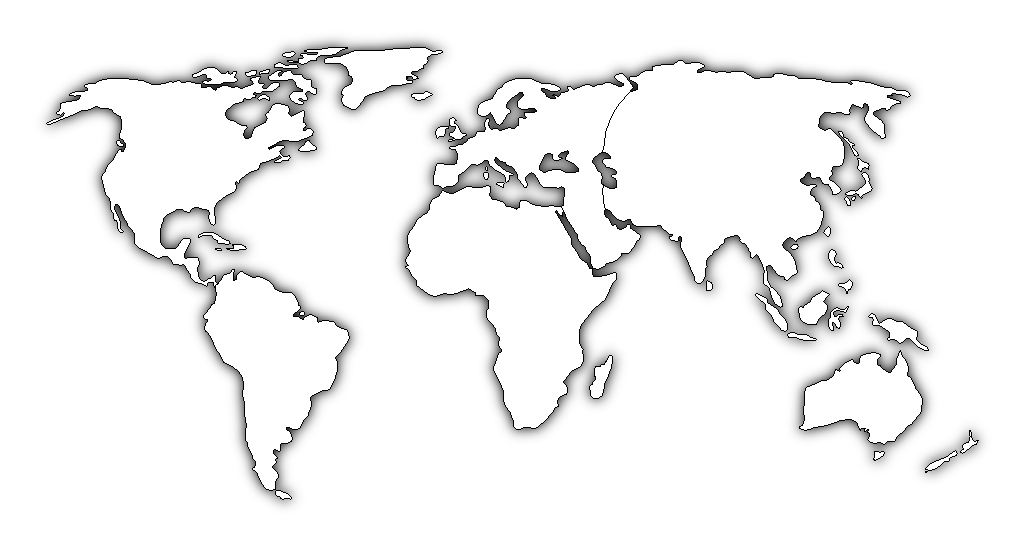
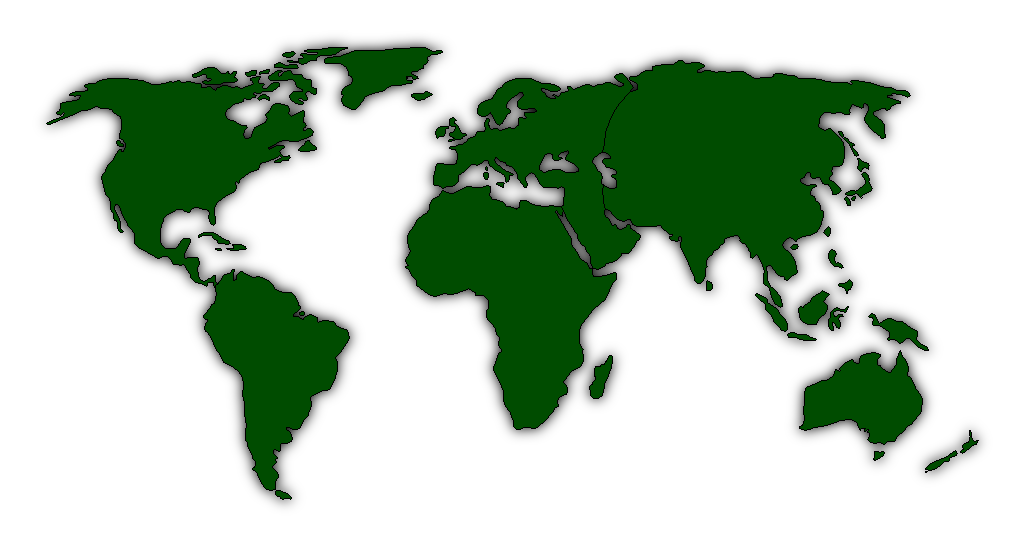
Joue avec l'aide d'une IA.

diff --git a/javascript/ville.js b/javascript/ville.js
@@ -9,6 +9,7 @@ exports.Ville = function(gameLogic, usine, zone, nom, x, y) {
 	this.gameLogic = gameLogic;
 	this.isUsine = usine;
 	this.zone = zone;
+	this.player = zone.owner;
 	if (this.isUsine) {
 		this.imageVille = gamejs.image.load("images/usine.png");
 		this.imageVilleHL = gamejs.image.load("images/HL_usine.png");
@@ -16,6 +17,8 @@ exports.Ville = function(gameLogic, usine, zone, nom, x, y) {
 		this.imageVille = gamejs.image.load("images/ville.png");
 		this.imageVilleHL = gamejs.image.load("images/HL_ville.png");
 	}
+	this.imageVille.setAlpha(this.player == 0 ? 0 : 0.5);
+	this.imageVilleHL.setAlpha(this.player == 0 ? 0 : 0.5);
 	this.image = this.imageVille;
 	this.width = this.imageVille.getSize()[0];
 	this.height = this.imageVille.getSize()[1];
@@ -32,6 +35,7 @@ exports.Ville = function(gameLogic, usine, zone, nom, x, y) {
 	this.habitantsInfectes = 0;
 	this.habitantsImmunises = 0;
 	this.habitantsMorts = 0;
+
 
 	return this;
 };
@@ -143,14 +147,16 @@ exports.Ville.prototype.update_habitants = function(msDuration) {
 exports.Ville.prototype.drawInfos = function(infoVilleSurface) {
 	infoVilleSurface.clear();
 	infoVilleSurface.blit(font.render(this.nom, '#ffffff'), [0, 250]);
-	infoVilleSurface.blit(font.render("Population totale : " + this.getHabitants(), '#ffffff'), [0, 280]);
-	infoVilleSurface.blit(font.render("Population saine :", '#ffffff'), [0, 300]);
-	infoVilleSurface.blit(font.render("non vaccinée : " + this.getHabitantsSains(), '#ffffff'), [40, 320]);
-	infoVilleSurface.blit(font.render("immunisée : " + this.getHabitantsImmunises(), '#ffffff'), [40, 340]);
-	infoVilleSurface.blit(font.render("Population malade : " + this.getHabitantsInfectes(), '#ffffff'), [0, 360]);
-	infoVilleSurface.blit(font.render("Nombre de morts : " + this.getHabitantsMorts(), '#ffffff'), [0, 380]);
-	infoVilleSurface.blit(font.render("Stocks traitements : " + this.stockTraitements, '#ffffff'), [0, 410]);
-	infoVilleSurface.blit(font.render("Stocks vaccins : " + this.stockVaccins, '#ffffff'), [0, 430]);
+	if (this.player == 0) {
+		infoVilleSurface.blit(font.render("Population totale : " + this.getHabitants(), '#ffffff'), [0, 280]);
+		infoVilleSurface.blit(font.render("Population saine :", '#ffffff'), [0, 300]);
+		infoVilleSurface.blit(font.render("non vaccinée : " + this.getHabitantsSains(), '#ffffff'), [40, 320]);
+		infoVilleSurface.blit(font.render("immunisée : " + this.getHabitantsImmunises(), '#ffffff'), [40, 340]);
+		infoVilleSurface.blit(font.render("Population malade : " + this.getHabitantsInfectes(), '#ffffff'), [0, 360]);
+		infoVilleSurface.blit(font.render("Nombre de morts : " + this.getHabitantsMorts(), '#ffffff'), [0, 380]);
+		infoVilleSurface.blit(font.render("Stocks traitements : " + this.stockTraitements, '#ffffff'), [0, 410]);
+		infoVilleSurface.blit(font.render("Stocks vaccins : " + this.stockVaccins, '#ffffff'), [0, 430]);
+	}
 };
 
 exports.Ville.prototype.draw = function(surface) {

diff --git a/javascript/ia.js b/javascript/ia.js
@@ -1,9 +1,10 @@
 var gamejs = require('gamejs');
 var transfert = require('transfert');
 
-exports.IA = function(gameLogic, gTransferts) {
+exports.IA = function(gameLogic, gTransferts, playerId) {
 	this.gameLogic = gameLogic;
 	this.gTransferts = gTransferts;
+	this.playerId = playerId;
 	gamejs.time.fpsCallback(this.doTurn, this, 1);
 
 	return this;
@@ -13,10 +14,12 @@ exports.IA.prototype.doTurn = function() {
 	var villeA = null;
 	var maxTraitements = -1;
 	for (var i in this.gameLogic.carte.zones) {
-		for (var j = 0; j < this.gameLogic.carte.zones[i].nbVilles; j++) {
-			if (this.gameLogic.carte.zones[i].gVilles._sprites[j].stockTraitements > maxTraitements) {
-				maxTraitements = this.gameLogic.carte.zones[i].gVilles._sprites[j].stockTraitements;
-				villeA = this.gameLogic.carte.zones[i].gVilles._sprites[j];
+		if (this.gameLogic.carte.zones[i].owner == this.playerId) {
+			for (var j = 0; j < this.gameLogic.carte.zones[i].nbVilles; j++) {
+				if (this.gameLogic.carte.zones[i].gVilles._sprites[j].stockTraitements > maxTraitements) {
+					maxTraitements = this.gameLogic.carte.zones[i].gVilles._sprites[j].stockTraitements;
+					villeA = this.gameLogic.carte.zones[i].gVilles._sprites[j];
+				}
 			}
 		}
 	}
@@ -24,12 +27,14 @@ exports.IA.prototype.doTurn = function() {
 	var villeB = null;
 	var maxInfectes = -1;
 	for (var i in this.gameLogic.carte.zones) {
-		for (var j = 0; j < this.gameLogic.carte.zones[i].nbVilles; j++) {
-			if (this.gameLogic.carte.zones[i].gVilles._sprites[j].getHabitantsInfectes() > maxInfectes) {
-				maxInfectes = this.gameLogic.carte.zones[i].gVilles._sprites[j].getHabitantsInfectes();
-				villeB = this.gameLogic.carte.zones[i].gVilles._sprites[j];
+	//	if (this.gameLogic.carte.zones[i].owner == this.playerId) {
+			for (var j = 0; j < this.gameLogic.carte.zones[i].nbVilles; j++) {
+				if (this.gameLogic.carte.zones[i].gVilles._sprites[j].getHabitantsInfectes() > maxInfectes) {
+					maxInfectes = this.gameLogic.carte.zones[i].gVilles._sprites[j].getHabitantsInfectes();
+					villeB = this.gameLogic.carte.zones[i].gVilles._sprites[j];
+				}
 			}
-		}
+	//	}
 	}
 
 	if (villeA != villeB && villeA != null && villeB != null) {

diff --git a/javascript/main.js b/javascript/main.js
@@ -5,23 +5,6 @@ var logic = require('logic');
 var events = require('events');
 var ia = require('ia');
 
-function buildMap() {
-	var map = gamejs.image.load("images/carte.png");
-
-	var background = new gamejs.Surface(1024, 545);
-	background.blit(map);
-
-	// Pour l'instant on affecte toutes les zones.
-	background.blit(gamejs.image.load("images/carte_eur.png"));
-	background.blit(gamejs.image.load("images/carte_us.png"));
-	background.blit(gamejs.image.load("images/carte_ams.png"));
-	background.blit(gamejs.image.load("images/carte_afr.png"));
-	background.blit(gamejs.image.load("images/carte_indo.png"));
-	background.blit(gamejs.image.load("images/carte_asia.png"));
-
-	return background;
-}
-
 function aide() {
 	var mainSurface = gamejs.display.getSurface();
 	var aide = Array();
@@ -127,7 +110,7 @@ function startGame() {
 	// Sprites
 	var gTransferts = new gamejs.sprite.Group();
 
-	var background = buildMap();
+	var background = gameLogic.carte.buildMap();
 	var lineSurface = new gamejs.Surface(1024, 545);
 	var infoVilleSurface = new gamejs.Surface(1024, 545);
 
@@ -155,7 +138,7 @@ function startGame() {
 	gamejs.time.fpsCallback(tick, this, 20);
 	gamejs.time.fpsCallback(updateLogic, this, 2);
 
-	var cpu = new ia.IA(gameLogic, gTransferts);
+	var cpu = new ia.IA(gameLogic, gTransferts, 1);
 }
 
 function main() {
@@ -181,12 +164,12 @@ gamejs.preload(["images/menu.png",
 								"images/aide4.png",
 								"images/credits.png",
 								"images/seringue.png",
-								"images/carte_eur.png",
-								"images/carte_us.png",
-								"images/carte_ams.png",
-								"images/carte_afr.png",
-								"images/carte_indo.png",
-								"images/carte_asia.png",
+								"images/zone1.png",
+								"images/zone2.png",
+								"images/zone3.png",
+								"images/zone4.png",
+								"images/zone5.png",
+								"images/zone6.png",
 								"images/carte.png",
 								"images/ville.png",
 								"images/usine.png",

diff --git a/javascript/carte.js b/javascript/carte.js
@@ -14,9 +14,9 @@ exports.Carte = function(gameLogic) {
 };
 
 exports.Carte.prototype.chargeZones = function() {
-	var i;
+	//var id;
 	for (id = 1; id <= 6; id++) {
-		this.zones.push(new zone.Zone(this.gameLogic, id));
+		this.zones.push(new zone.Zone(this.gameLogic, id, Math.floor((id - 1) / 3)));
 	}
 };
 
@@ -27,6 +27,22 @@ exports.Carte.prototype.update = function(deltaTime) {
 	}
 	this.migrations(deltaTime);
 };
+
+exports.Carte.prototype.buildMap = function() {
+	var map = gamejs.image.load("images/carte.png");
+
+	var background = new gamejs.Surface(1024, 545);
+	background.blit(map);
+
+	
+	for (var i = 1; i <= 6; i++) {
+		if (this.zones[i-1].owner == 0) {
+			background.blit(gamejs.image.load("images/zone" + i + ".png"));
+		}
+	}
+
+	return background;
+}
 
 exports.Carte.prototype.migrations = function(deltaTime) {
 	for (var idZ1 in this.zones) {

diff --git a/javascript/events.js b/javascript/events.js
@@ -13,9 +13,11 @@ exports.eventManager = function(gameLogic, infoVilleSurface, lineSurface, gTrans
 	events.forEach(function(event) {
 		var update = false;
 		if (event.type === gamejs.event.MOUSE_DOWN) {
-			mouseDown = true;
-			isTraitement = (event.button == 0);
-			selectedVille = gameLogic.targetedVille;
+			if (gameLogic.targetedVille == null || gameLogic.targetedVille.player == 0) {
+				mouseDown = true;
+				isTraitement = (event.button == 0);
+				selectedVille = gameLogic.targetedVille;
+			}
 		} else if (event.type === gamejs.event.MOUSE_UP) {
 			if (gameLogic.targetedVille != null && selectedVille != null && gameLogic.targetedVille != selectedVille) {
 				var quantite;

diff --git a/javascript/zone.js b/javascript/zone.js
@@ -2,9 +2,10 @@ var gamejs = require('gamejs');
 var draw = require('gamejs/draw');
 var ville = require('ville');
 
-exports.Zone = function(gameLogic, id) {
+exports.Zone = function(gameLogic, id, playerId) {
 	this.id = id;
 	this.gameLogic = gameLogic;
+	this.owner = playerId;
 	this.nbVilles = 0;
 	this.populationInfectee = 0;
 	this.population = 0;
